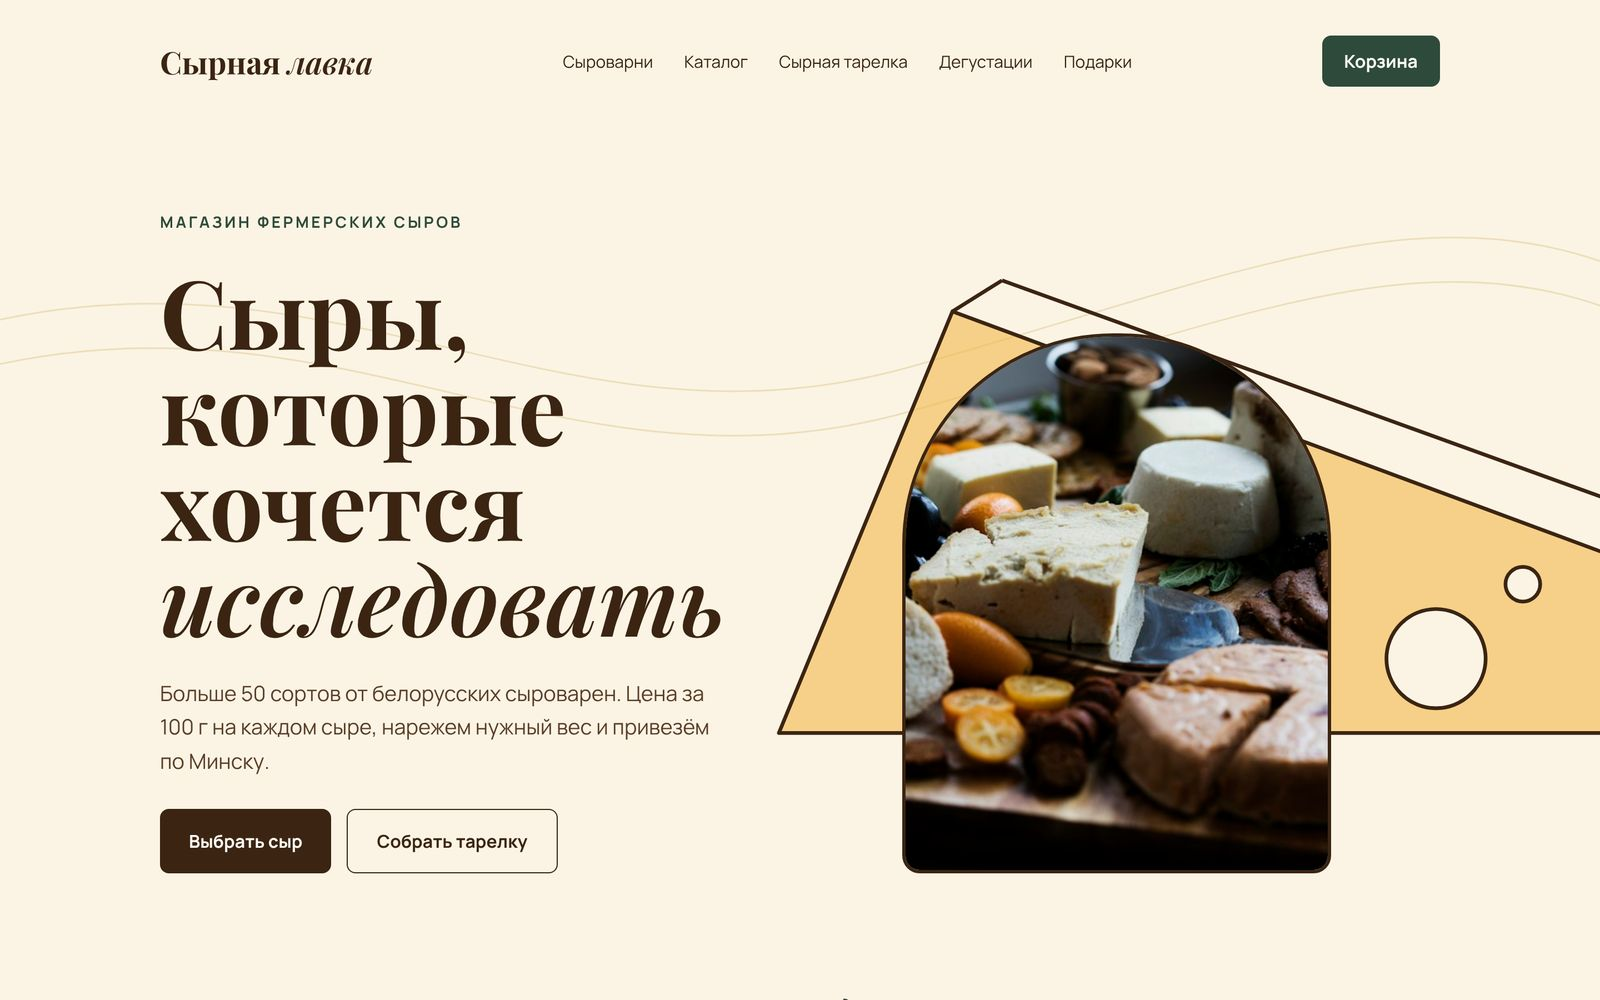
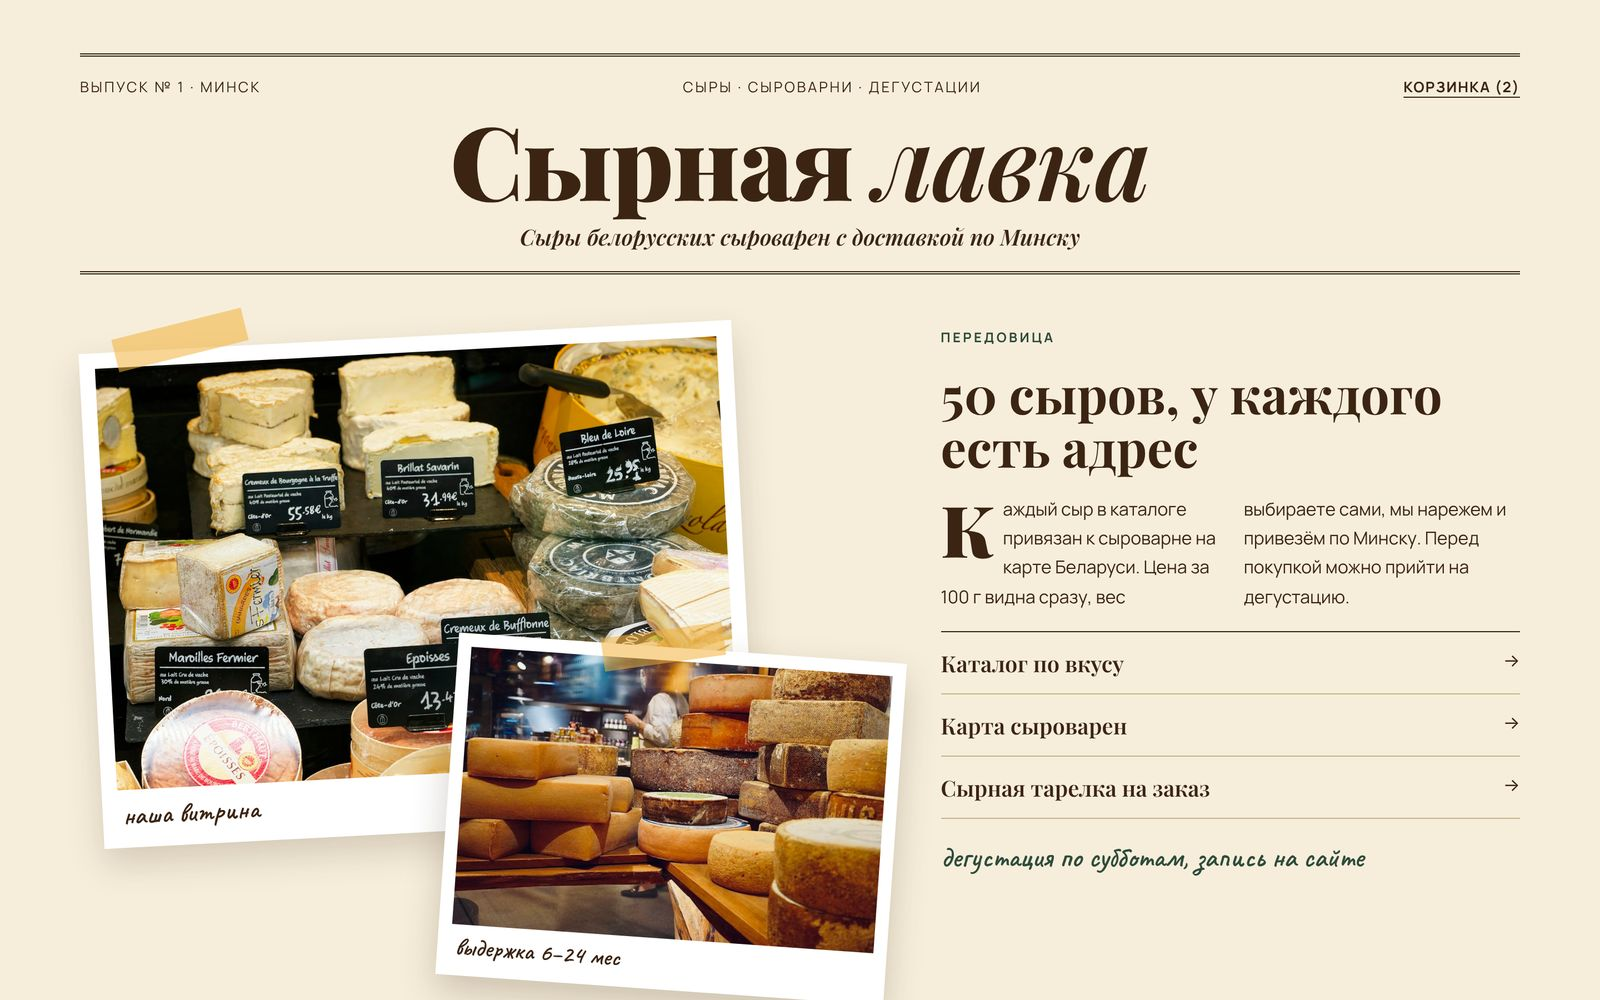
Обновить превью примеров по новым макетам
Три концепта теперь различаются: тёмный full-bleed у суши-бара,
газетная вёрстка с полароидами у сырного магазина, круги и овалы
у цветочной студии. Названия и контакты обезличены.

Claude-Session: https://claude.ai/code/session_011jzAsn17DtS59rfg1M2nRK

diff --git a/index.html b/index.html
@@ -240,7 +240,7 @@
       <div class="slider-viewport">
       <div class="works slider-track">
         <article class="work">
-          <img class="ph-img" src="img/work-sushi.jpg" alt="Концепт сайта суши-бара: тёмная главная страница с крупным заголовком и палочками" width="1600" height="1000" loading="lazy">
+          <img class="ph-img" src="img/work-sushi.jpg" alt="Концепт сайта суши-бара: тёмный первый экран с фото повара во всю ширину и круглой кнопкой корзины" width="1600" height="1000" loading="lazy">
           <h3>Сайт суши-бара с доставкой</h3>
           <p class="work__meta">Сайт с меню и заказом · Доставка еды</p>
           <p class="work__res">Меню с КБЖУ и составом каждого ролла, конструктор своего сета, проверка зоны доставки по адресу и оплата картой или ЕРИП без звонка оператору.</p>
@@ -248,7 +248,7 @@
         </article>
 
         <article class="work">
-          <img class="ph-img" src="img/work-cheese.jpg" alt="Концепт сайта сырного магазина: светлая главная страница с фото сырной доски" width="1600" height="1000" loading="lazy">
+          <img class="ph-img" src="img/work-cheese.jpg" alt="Концепт сайта сырного магазина в газетном стиле с фото-полароидами" width="1600" height="1000" loading="lazy">
           <h3>Интернет-магазин фермерских сыров</h3>
           <p class="work__meta">Интернет-магазин · Продукты</p>
           <p class="work__res">Карта сыроварен, подбор сыра по вкусу, паспорт и полный состав каждого сыра, цена за 100 г с выбором веса и конструктор сырной тарелки.</p>
@@ -256,7 +256,7 @@
         </article>
 
         <article class="work">
-          <img class="ph-img" src="img/work-flowers.jpg" alt="Концепт сайта цветочной студии: главная страница с букетом в арке" width="1600" height="1000" loading="lazy">
+          <img class="ph-img" src="img/work-flowers.jpg" alt="Концепт сайта цветочной студии: фото студии во всю высоту и круглые фото букетов" width="1600" height="1000" loading="lazy">
           <h3>Сайт цветочной студии</h3>
           <p class="work__meta">Интернет-магазин · Цветы</p>
           <p class="work__res">Подбор букета по поводу и бюджету, готовые букеты на сегодня, состав и описание аромата, фото букета перед отправкой и подписка на цветы.</p>
